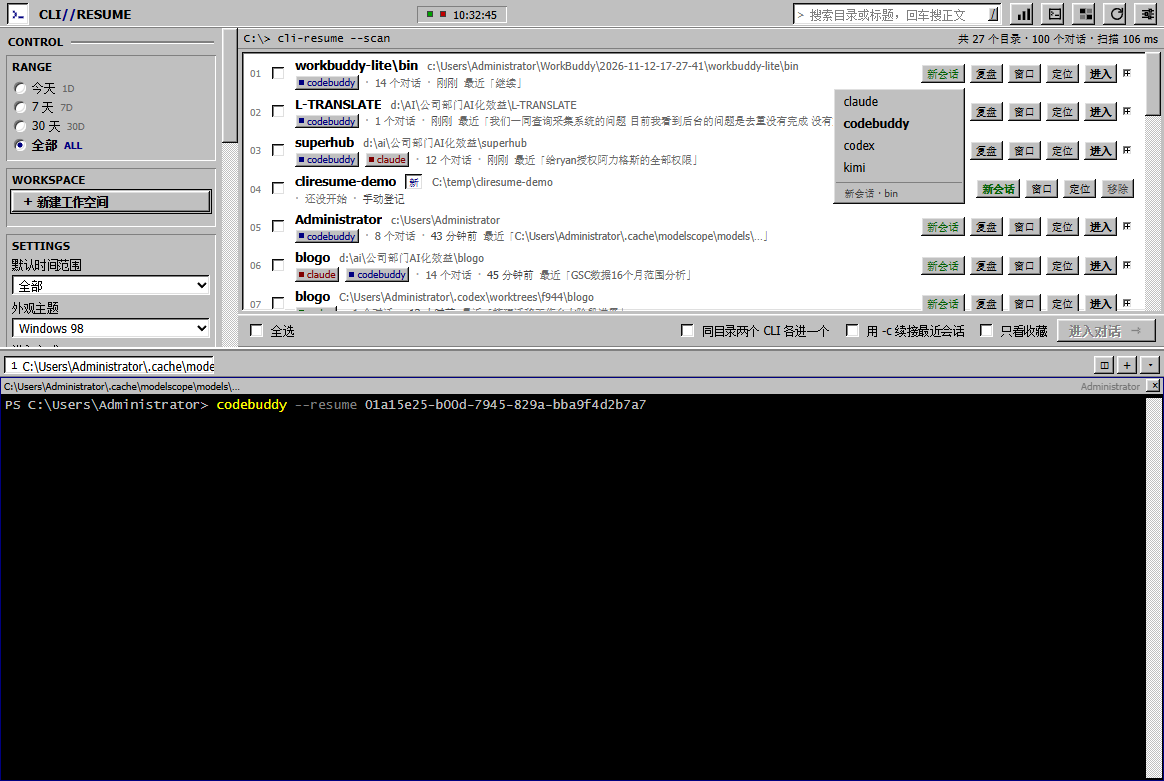
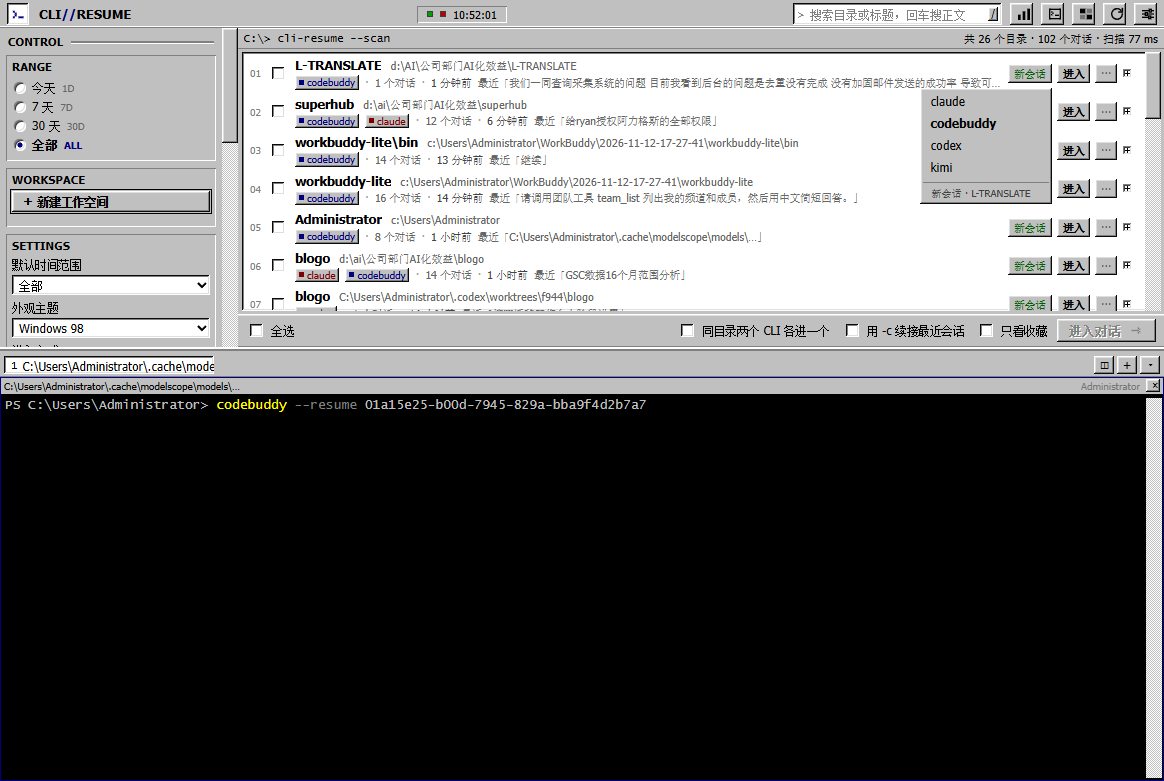
feat(desktop): 卡片次要动作收进 ⋯，新会话记住每个目录上次选的 CLI
卡片密度
- 之前五个按钮并排（新会话/复盘/窗口/定位/进入），把一个 1180px 宽的卡片挤得
  标题换行、路径被压。现在只留「新会话 / 进入」，复盘、在资源管理器打开、
  单独开一个窗口收进「⋯」；手动登记的工作空间多一项「从列表移除」
- ⋯ 和 CLI 选择共用同一个浮层组件：showMenu(anchor, items, onPick, hint)，
  条目渲染成 data-val，回调在关闭前取出（隐藏会把 menuPick 清掉）

记住上次选的 CLI
- %LOCALAPPDATA%\CliResumeGui\lasttool.json 存 {目录小写: CLI}，跨窗口共享
- 优先级：显式选过 > 这个目录最近一条会话用的 > 默认 claude
- 选完就记，下次菜单直接高亮它；Ctrl+N 也走同一条推断

一个必须踩的坑
- 后端 keyOfDir 把 / 归一成 \ 再小写，前端只 toLowerCase 就去查，
  D:/x 和 D:\x 对不上，记忆永远不生效。加 cwdKey() 统一两件事

验证
- 接口：POST 后 GET 回读，键是小写反斜杠
- 优先级：给 C:\Users\Administrator 记成 codex（它最近会话是 codebuddy），
  页面上算出来的默认值确实是 codex
- 边界：卡片 244–1140，三个控件 + 箭头最右到 1131，没有溢出
- 截图：霓虹的 ⋯ 菜单、98 的 CLI 菜单、工作空间表单

Changed region(s): [[0.2474, 0.0307, 0.9897, 0.3995], [0.9897, 0.1229, 1.0, 0.1536], [0.4021, 0.0, 0.433, 0.0307]]

diff --git a/desktop/web/app.js b/desktop/web/app.js
@@ -332,12 +332,8 @@ function itemHtml(w, index) {
       <div class="ws-side">
         <button class="mini-btn new${w.added ? ' go' : ''}" data-newsess="${esc(w.cwd)}"
                 title="在这个目录开一个全新的会话（不续接）">新会话</button>
-        ${w.added ? '' : `<button class="mini-btn brief" data-brief="${esc(w.cwd)}" title="让本地模型复盘这个目录最近一次会话">复盘</button>`}
-        <button class="mini-btn" data-window="${esc(w.cwd)}" title="把这个目录单独开一个窗口">窗口</button>
-        <button class="mini-btn" data-reveal="${esc(w.cwd)}" title="在资源管理器打开">定位</button>
-        ${w.added
-          ? `<button class="mini-btn del" data-delws="${esc(w.cwd)}" title="只是从列表移除，不删目录">移除</button>`
-          : `<button class="mini-btn go" data-open="${esc(key)}" title="进入这个目录最近的一个对话">进入</button>`}
+        ${w.added ? '' : `<button class="mini-btn go" data-open="${esc(key)}" title="进入这个目录最近的一个对话">进入</button>`}
+        <button class="mini-btn more" data-acts="${esc(key)}" title="更多操作">⋯</button>
         ${w.added ? '' : `<span class="caret" title="${open ? '收起' : '展开对话列表'}"></span>`}
       </div>
     </div>
@@ -710,35 +706,119 @@ async function batchOpen(key) {
 
 const TOOL_LIST = ['claude', 'codebuddy', 'codex', 'kimi'];
 
+// 每个目录显式选过的 CLI（后端 lasttool.json 跨窗口共享）。
+// 优先级：显式选过 > 这个目录最近一条会话用的 > 默认
+const LAST_TOOL = {};
+
+// 目录键统一成「小写 + 反斜杠」：后端 keyOfDir 就是这么存的，
+// 而 cwd 在这里可能是 D:/x 也可能是 D:\x，不归一就查不到
+function cwdKey(p) {
+  return String(p || '').toLowerCase().replace(/\//g, '\\');
+}
+
 function lastToolFor(cwd) {
-  const ws = S.byId.get(String(cwd).toLowerCase());
+  const key = cwdKey(cwd);
+  if (LAST_TOOL[key]) return LAST_TOOL[key];
+  const ws = S.byId.get(key);
   const s = ws && (ws.sessions || [])[0];
   return (s && s.tool) || S.settings.defaultTool || 'claude';
 }
 
-function showCliMenu(anchor, cwd) {
+async function loadLastTool() {
+  try {
+    const r = await fetch('/api/lasttool').then((x) => x.json());
+    Object.assign(LAST_TOOL, r.items || {});
+  } catch (e) {
+    /* 读不到就按会话推断，不影响使用 */
+  }
+}
+
+function rememberTool(cwd, tool) {
+  const key = cwdKey(cwd);
+  LAST_TOOL[key] = tool;
+  if (DEMO) return;
+  fetch('/api/lasttool', {
+    method: 'POST',
+    headers: { 'Content-Type': 'application/json' },
+    body: JSON.stringify({ cwd, tool }),
+  }).catch(() => {});
+}
+
+// ---------------- 弹出菜单 ----------------
+// 卡片上的「⋯」和「新会话」的 CLI 选择共用同一个浮层，只是条目不一样。
+let menuPick = null;
+
+function showMenu(anchor, items, onPick, hint) {
   const menu = $('cli-menu');
-  const def = lastToolFor(cwd);
-  menu.innerHTML = TOOL_LIST.map((t) =>
-    `<button data-cli="${t}"${t === def ? ' class="on"' : ''}>${t}</button>`).join('') +
-    `<div class="cli-menu-hint">新会话 · ${esc(baseOf(cwd))}</div>`;
-  menu.dataset.cwd = cwd;
+  menu.innerHTML =
+    items.map((it) =>
+      `<button data-val="${esc(it.id)}"${it.on ? ' class="on"' : ''}${it.danger ? ' data-danger="1"' : ''}>` +
+      `${esc(it.label)}</button>`).join('') +
+    (hint ? `<div class="cli-menu-hint">${esc(hint)}</div>` : '');
+  menuPick = onPick;
   menu.hidden = false;
+
   const r = anchor.getBoundingClientRect();
-  const w = menu.offsetWidth || 132;
-  const h = menu.offsetHeight || 120;
+  const w = menu.offsetWidth || 140;
+  const h = menu.offsetHeight || 130;
   menu.style.left = Math.max(8, Math.min(window.innerWidth - w - 8, r.right - w)) + 'px';
   menu.style.top = Math.min(window.innerHeight - h - 8, r.bottom + 5) + 'px';
 }
 
-function hideCliMenu() {
+function hideMenu() {
   const m = $('cli-menu');
   if (m) m.hidden = true;
+  menuPick = null;
+}
+
+function showCliMenu(anchor, cwd) {
+  const def = lastToolFor(cwd);
+  showMenu(
+    anchor,
+    TOOL_LIST.map((t) => ({ id: t, label: t, on: t === def })),
+    (tool) => newSession(cwd, tool),
+    `新会话 · ${baseOf(cwd)}`
+  );
+}
+
+// 卡片上的次要动作。密度到上限了，五个按钮并排会挤掉标题，收进这里
+function showMoreMenu(anchor, key) {
+  const ws = S.byId.get(key);
+  if (!ws) return;
+  const items = [];
+  if (!ws.added) items.push({ id: 'brief', label: '复盘这个目录' });
+  items.push({ id: 'reveal', label: '在资源管理器打开' });
+  items.push({ id: 'window', label: '单独开一个窗口' });
+  if (ws.added) items.push({ id: 'del', label: '从列表移除', danger: true });
+
+  showMenu(anchor, items, (act) => {
+    if (act === 'brief') openBrief(ws.cwd);
+    else if (act === 'reveal') revealPath(ws.cwd);
+    else if (act === 'window') openWorkspaceWindow(ws.cwd);
+    else if (act === 'del') removeWorkspace(ws.cwd);
+  }, ws.name);
+}
+
+function revealPath(path) {
+  if (DEMO) {
+    toast('示例模式：不会打开资源管理器');
+    return;
+  }
+  fetch('/api/reveal', {
+    method: 'POST',
+    headers: { 'Content-Type': 'application/json' },
+    body: JSON.stringify({ path }),
+  })
+    .then((r) => r.json())
+    .then((r) => { if (!r.ok) toast('打开资源管理器失败', true); })
+    .catch(() => toast('打开资源管理器失败', true));
 }
 
 async function newSession(cwd, tool) {
   if (!cwd) return;
   const t = TOOL_LIST.indexOf(tool) >= 0 ? tool : lastToolFor(cwd);
+  // 记住这个目录用了哪家：下次菜单默认高亮它，不用每次重选
+  rememberTool(cwd, t);
   if (DEMO) {
     toast(`示例模式：这里会开一个 ${t} 新会话`);
     return;
@@ -1257,14 +1337,6 @@ listEl.addEventListener('click', (e) => {
     return;
   }
 
-  // 复盘：让本地模型读一遍这个目录最近一次会话
-  const briefBtn = e.target.closest('[data-brief]');
-  if (briefBtn) {
-    e.stopPropagation();
-    openBrief(briefBtn.dataset.brief);
-    return;
-  }
-
   if (e.target.closest('[data-brief-redo]')) {
     fetchBrief(true);
     return;
@@ -1309,17 +1381,11 @@ listEl.addEventListener('click', (e) => {
     return;
   }
 
-  const delBtn = e.target.closest('[data-delws]');
-  if (delBtn) {
+  // 卡片上的「⋯」：复盘 / 定位 / 单独开窗 / 移除
+  const actsBtn = e.target.closest('[data-acts]');
+  if (actsBtn) {
     e.stopPropagation();
-    removeWorkspace(delBtn.dataset.delws);
-    return;
-  }
-
-  const winBtn = e.target.closest('[data-window]');
-  if (winBtn) {
-    e.stopPropagation();
-    openWorkspaceWindow(winBtn.dataset.window);
+    showMoreMenu(actsBtn, actsBtn.dataset.acts);
     return;
   }
 
@@ -1327,20 +1393,6 @@ listEl.addEventListener('click', (e) => {
   if (openBtn) {
     e.stopPropagation();
     doOpen([openBtn.dataset.open]);
-    return;
-  }
-
-  const revealBtn = e.target.closest('[data-reveal]');
-  if (revealBtn) {
-    e.stopPropagation();
-    if (DEMO) {
-      toast('示例模式：不会打开资源管理器');
-      return;
-    }
-    fetch('/api/reveal', { method: 'POST', body: JSON.stringify({ path: revealBtn.dataset.reveal }) })
-      .then((r) => r.json())
-      .then((r) => { if (!r.ok) toast('打开资源管理器失败', true); })
-      .catch(() => toast('打开资源管理器失败', true));
     return;
   }
 
@@ -2078,21 +2130,25 @@ $('ws-path').addEventListener('keydown', (e) => {
 });
 
 $('cli-menu').addEventListener('click', (e) => {
-  const b = e.target.closest('[data-cli]');
+  const b = e.target.closest('[data-val]');
   if (!b) return;
-  newSession($('cli-menu').dataset.cwd, b.dataset.cli);
-  hideCliMenu();
+  // 先取出回调再关菜单：隐藏时会把 menuPick 清掉
+  const fn = menuPick;
+  const val = b.dataset.val;
+  hideMenu();
+  if (fn) fn(val);
 });
 
 // 点别处、滚动、缩放都关掉菜单，别让它挂在半空
 document.addEventListener('mousedown', (e) => {
   const m = $('cli-menu');
   if (!m || m.hidden) return;
-  if (e.target.closest('#cli-menu') || e.target.closest('[data-newsess]')) return;
-  hideCliMenu();
+  if (e.target.closest('#cli-menu') || e.target.closest('[data-newsess]') ||
+      e.target.closest('[data-acts]')) return;
+  hideMenu();
 });
-window.addEventListener('resize', hideCliMenu);
-window.addEventListener('blur', hideCliMenu);
+window.addEventListener('resize', hideMenu);
+window.addEventListener('blur', hideMenu);
 
 $('term-btn').addEventListener('click', () => {
   if (TM.panes.length) {
@@ -2180,7 +2236,7 @@ document.addEventListener('keydown', (e) => {
   }
   if (e.key === 'Escape') {
     if (!$('cli-menu').hidden) {
-      hideCliMenu();
+      hideMenu();
       return;
     }
     if (S.statsView) {
@@ -2237,6 +2293,7 @@ document.addEventListener('visibilitychange', () => {
 initOnlyChip();
 loadAutoStart();
 loadAgents();
+loadLastTool();
 // 先读收藏再扫目录：首屏就是「收藏在前的顺序」，不会先抖一下
 loadFavorites()
   .then(() => load(false))

diff --git a/desktop/web/style.css b/desktop/web/style.css
@@ -545,6 +545,17 @@ html, body {
   letter-spacing: .04em;
 }
 
+.mini-btn.more {
+  width: 22px;
+  padding: 0;
+  font-size: 14px;
+  line-height: 1;
+  letter-spacing: 0;
+}
+
+.cli-menu button[data-danger] { color: var(--magenta); }
+.cli-menu button[data-danger]:hover { background: rgba(var(--mag-rgb), .16); color: var(--magenta); }
+
 .mini-btn.new { color: var(--lime); border-color: rgba(var(--lime-rgb), .42); }
 .mini-btn.new:hover { background: rgba(var(--lime-rgb), .12); border-color: var(--lime); color: var(--lime); }
 .mini-btn.del { color: var(--muted); }

diff --git a/desktop/src/backend.cpp b/desktop/src/backend.cpp
@@ -222,6 +222,30 @@ bool saveExtraWs(const std::string& path, const json& arr) {
                      MOVEFILE_REPLACE_EXISTING) != FALSE;
 }
 
+// 「这个目录上次用的是哪家 CLI」：一个 cwd → tool 的字典。
+// 只是新会话菜单的默认高亮，丢了不影响任何功能，所以坏了就当没有
+json loadLastTool(const std::string& path) {
+  std::ifstream f(utf8ToWide(path), std::ios::binary);
+  if (!f) return json::object();
+  std::stringstream ss;
+  ss << f.rdbuf();
+  try {
+    json j = json::parse(ss.str());
+    if (j.is_object() && j.contains("items") && j["items"].is_object()) return j["items"];
+  } catch (...) {
+  }
+  return json::object();
+}
+
+bool saveLastTool(const std::string& path, const json& map) {
+  std::ofstream f(utf8ToWide(path + ".tmp"), std::ios::binary | std::ios::trunc);
+  if (!f) return false;
+  f << dumpJson(json{{"items", map}});
+  f.close();
+  return MoveFileExW(utf8ToWide(path + ".tmp").c_str(), utf8ToWide(path).c_str(),
+                     MOVEFILE_REPLACE_EXISTING) != FALSE;
+}
+
 // 系统文件夹选择框。跑在自己的 STA 线程里：httplib 的工作线程不一定初始化过 COM，
 // 而且模态框会阻塞，不能占着请求线程。
 std::string pickFolder() {
@@ -522,6 +546,34 @@ void Backend::setupRoutes() {
       out["cwd"] = cwd;
       out["name"] = leafOf(cwd);
       if (!ok) out["error"] = err;
+    } catch (const std::exception& e) {
+      out["error"] = e.what();
+    }
+    res.set_content(dumpJson(out), "application/json; charset=utf-8");
+  });
+
+  // 每个目录上次选过哪家 CLI：新会话菜单拿它当默认项
+  srv_.Get("/api/lasttool", [this](const httplib::Request&, httplib::Response& res) {
+    res.set_header("Cache-Control", "no-store");
+    res.set_content(dumpJson(json{{"ok", true},
+                                {"items", loadLastTool(dataDir_ + "\\lasttool.json")}}),
+                    "application/json; charset=utf-8");
+  });
+
+  srv_.Post("/api/lasttool", [this](const httplib::Request& req, httplib::Response& res) {
+    json out = {{"ok", false}};
+    try {
+      json body = json::parse(req.body);
+      const std::string cwd = keyOfDir(jstr(body, "cwd"));
+      const std::string tool = jstr(body, "tool");
+      if (cwd.empty() || tool.empty()) {
+        out["error"] = "缺少 cwd 或 tool";
+      } else {
+        const std::string path = dataDir_ + "\\lasttool.json";
+        json map = loadLastTool(path);
+        map[cwd] = tool;
+        out["ok"] = saveLastTool(path, map);
+      }
     } catch (const std::exception& e) {
       out["error"] = e.what();
     }

diff --git a/desktop/src/main.cpp b/desktop/src/main.cpp
@@ -134,6 +134,10 @@ std::string actionScript(const std::string& act) {
     // 勾上「只看收藏」：验证收藏过滤与置顶顺序
     return "var c=document.getElementById('opt-fav');if(c){c.checked=true;c.dispatchEvent(new Event('change'));}";
   }
+  if (act == "moremenu") {
+    // 卡片「⋯」的溢出菜单
+    return "var b=document.querySelector('[data-acts]');if(b)b.click();";
+  }
   if (act == "newmenu") {
     // 打开「新会话」的 CLI 菜单：验证浮层定位与四套皮肤的样式
     return "var b=document.querySelector('[data-newsess]');if(b)b.click();";

diff --git a/README.md b/README.md
@@ -49,7 +49,9 @@ transcript 文件写完之后并不存在。也就是说它的对话没有落到
 登记过的目录存 `workspaces.json`，标一个「新」，卡片上是「新会话 / 窗口 / 定位 / 移除」。
 
 「新会话」和「进入」是两件事：后者 `--resume` 一条旧会话，前者在这个目录起一个**全新**会话。
-点开先选 CLI（默认高亮这家最近用过的），`Ctrl+N` 是同一条捷径。
+点开先选 CLI，默认高亮**上次在这个目录选过的那家**（记在 `lasttool.json`，跨窗口共享），
+`Ctrl+N` 是同一条捷径。复盘、开窗、定位这些次要动作收在卡片右侧的「⋯」里 ——
+五个按钮并排会把标题挤变形。
 
 ## 工作区窗口
 
